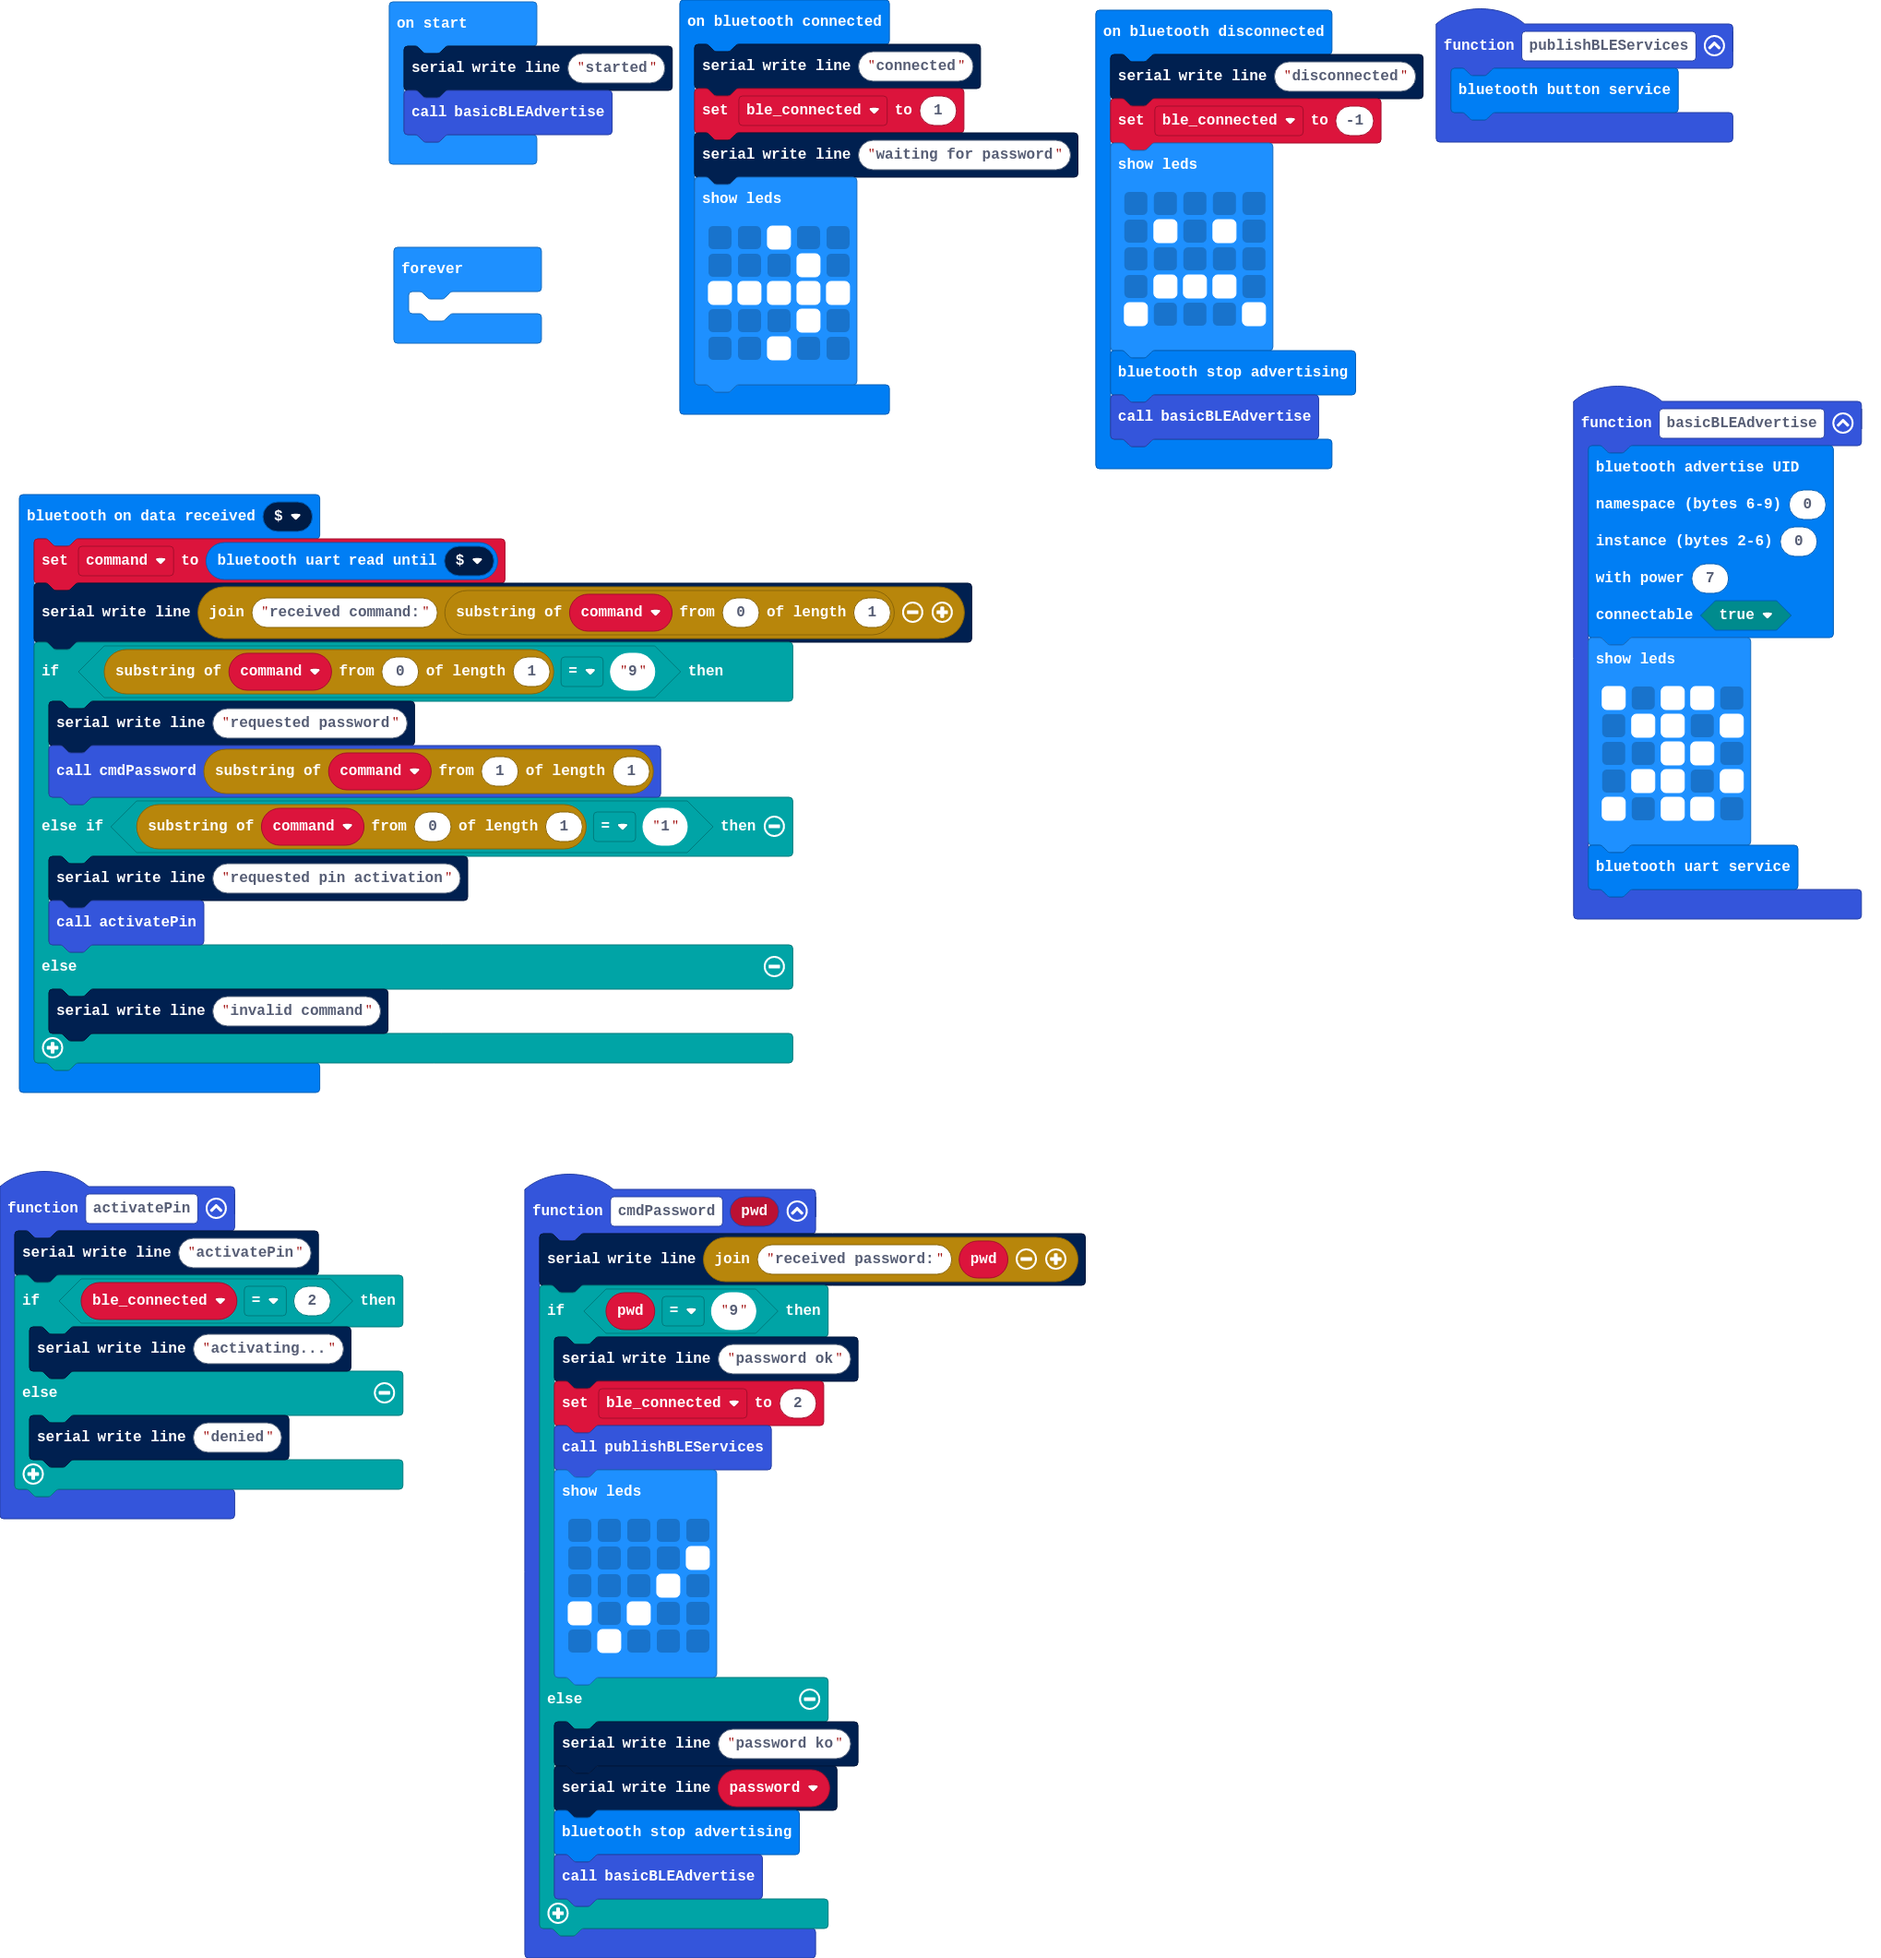
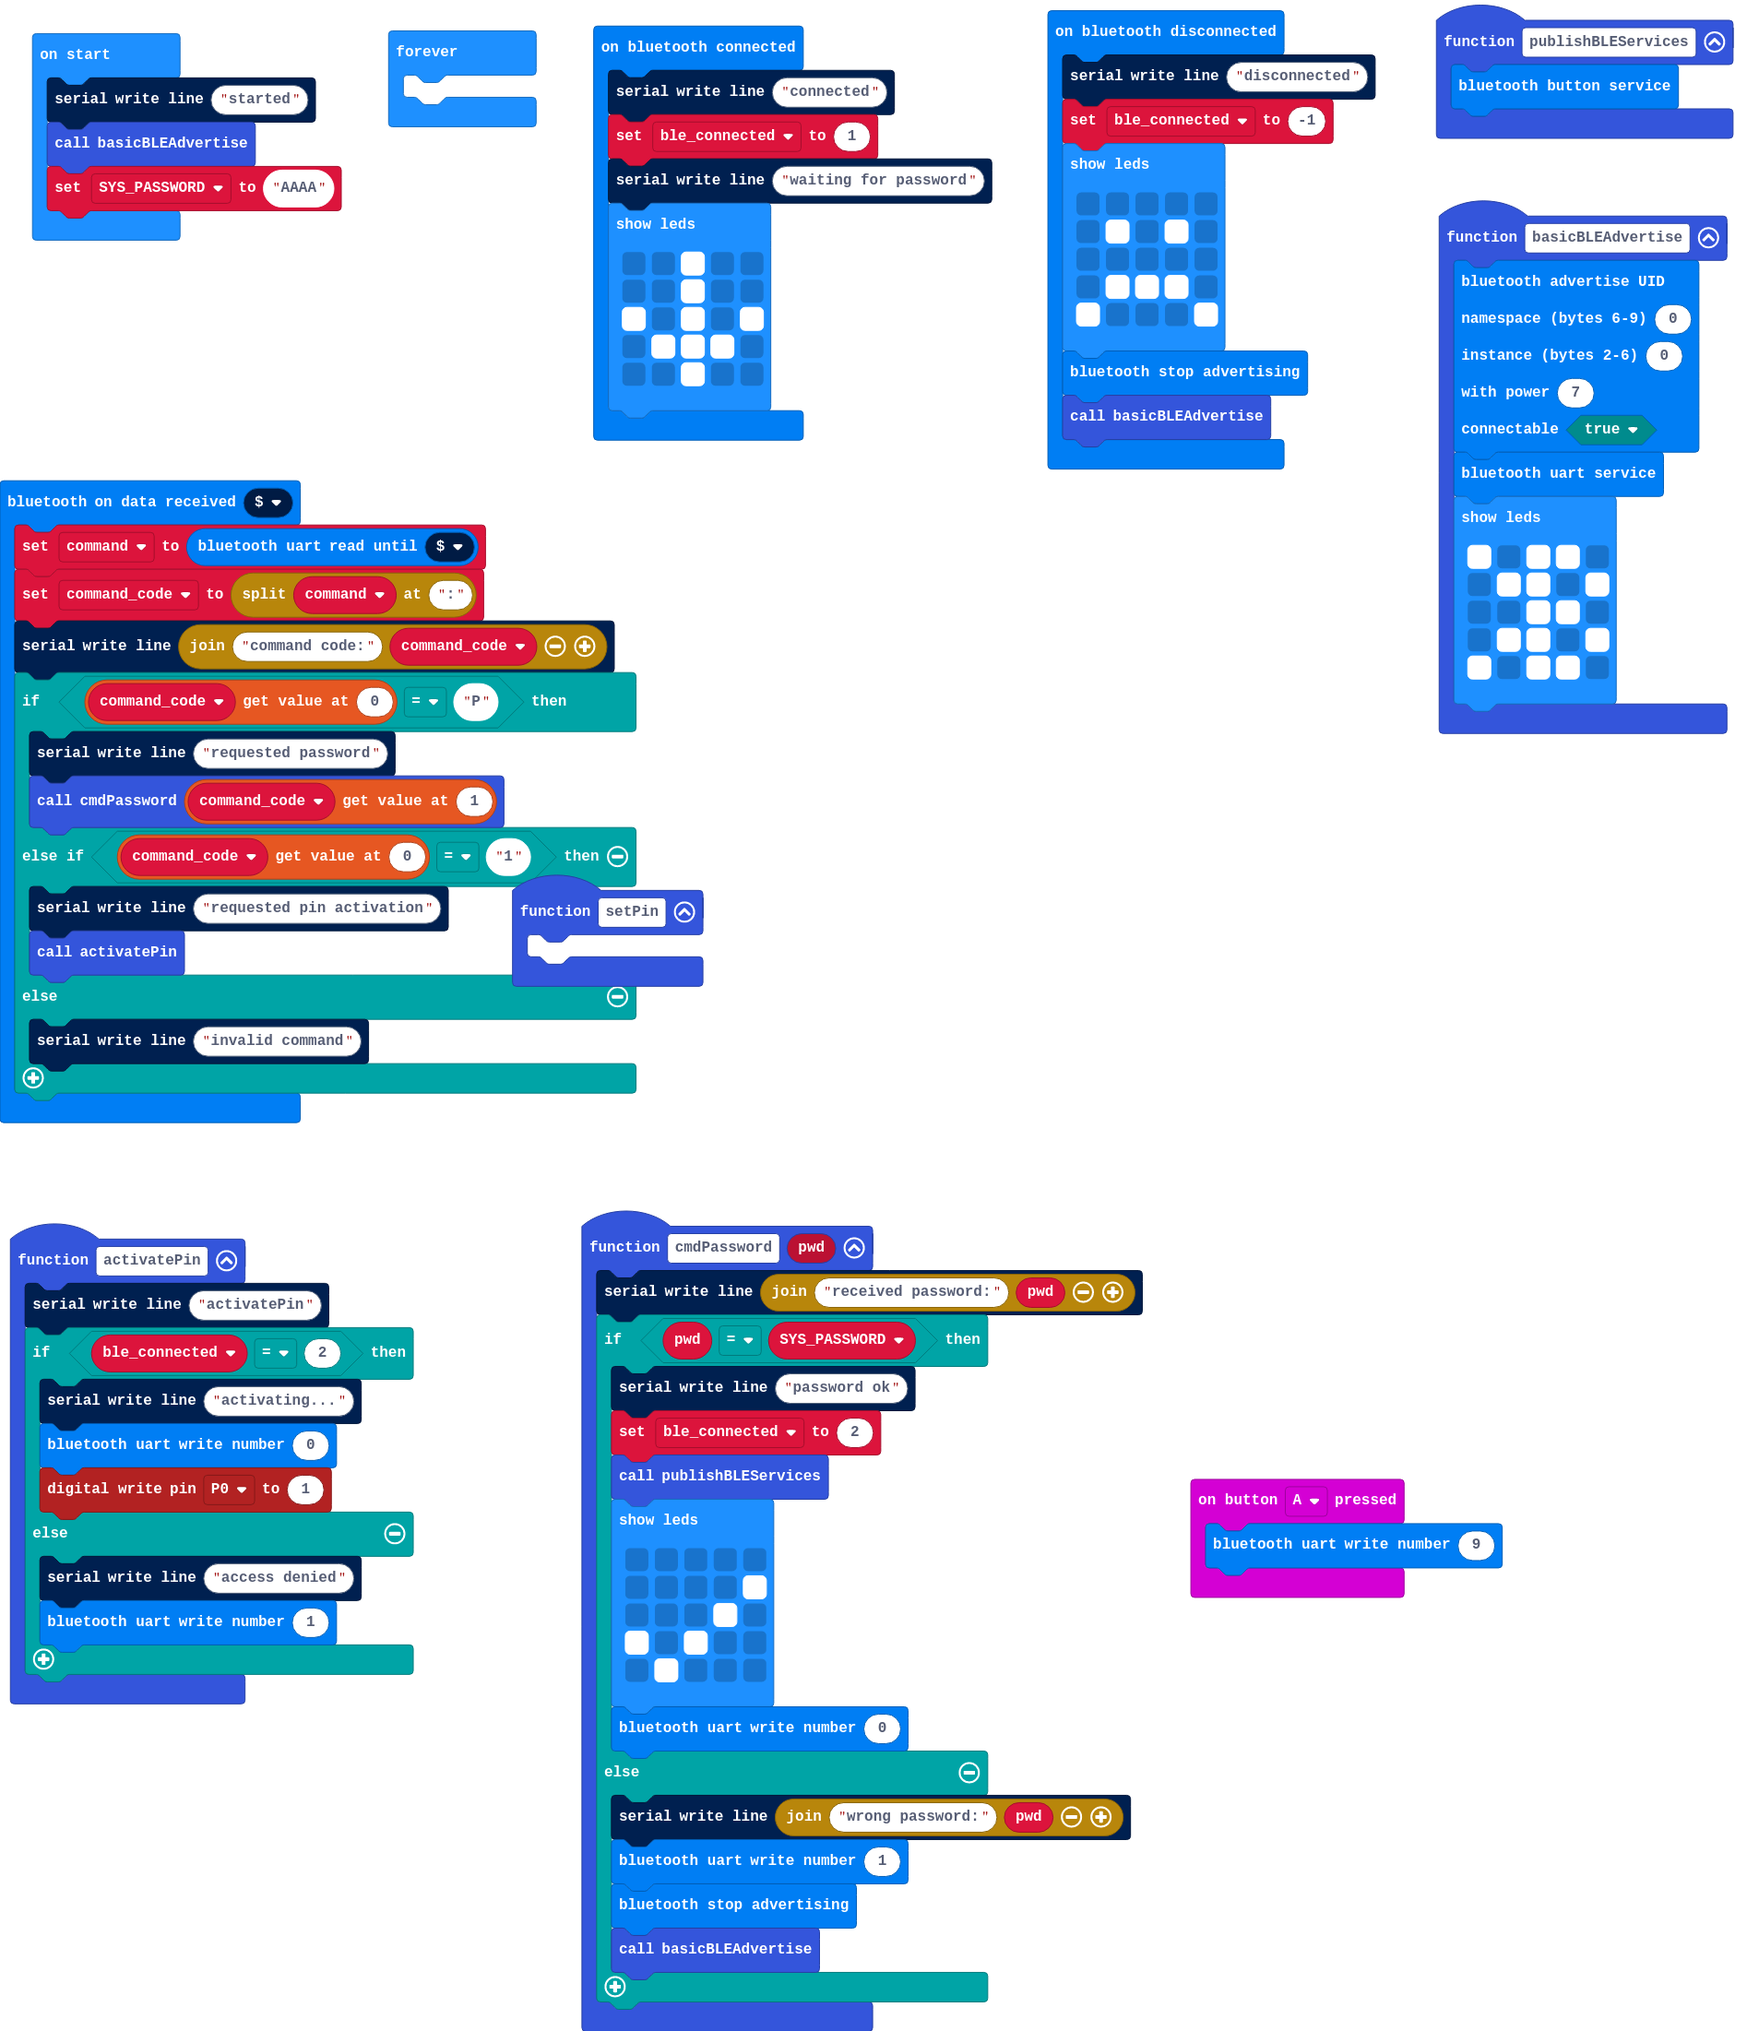
uart response

diff --git a/main.ts b/main.ts
@@ -1,10 +1,11 @@
 bluetooth.onUartDataReceived(serial.delimiters(Delimiters.Dollar), function () {
     command = bluetooth.uartReadUntil(serial.delimiters(Delimiters.Dollar))
-    serial.writeLine("received command:" + command.substr(0, 1))
-    if (command.substr(0, 1) == "9") {
+    command_code = command.split(":")
+    serial.writeLine("command code:" + command_code)
+    if (command_code[0] == "P") {
         serial.writeLine("requested password")
-        cmdPassword(command.substr(1, 1))
-    } else if (command.substr(0, 1) == "1") {
+        cmdPassword(command_code[1])
+    } else if (command_code[0] == "1") {
         serial.writeLine("requested pin activation")
         activatePin()
     } else {
@@ -17,9 +18,9 @@ bluetooth.onBluetoothConnected(function () {
     serial.writeLine("waiting for password")
     basic.showLeds(`
         . . # . .
-        . . . # .
-        # # # # #
-        . . . # .
+        . . # . .
+        # . # . #
+        . # # # .
         . . # . .
         `)
 })
@@ -36,6 +37,9 @@ bluetooth.onBluetoothDisconnected(function () {
     bluetooth.stopAdvertising()
     basicBLEAdvertise()
 })
+input.onButtonPressed(Button.A, function () {
+    bluetooth.uartWriteNumber(9)
+})
 function publishBLEServices () {
     bluetooth.startButtonService()
 }
@@ -46,6 +50,7 @@ function basicBLEAdvertise () {
     7,
     true
     )
+    bluetooth.startUartService()
     basic.showLeds(`
         # . # # .
         . # # . #
@@ -53,11 +58,13 @@ function basicBLEAdvertise () {
         . # # . #
         # . # # .
         `)
-    bluetooth.startUartService()
+}
+function setPin () {
+	
 }
 function cmdPassword (pwd: string) {
     serial.writeLine("received password:" + pwd)
-    if (pwd == "9") {
+    if (pwd == SYS_PASSWORD) {
         serial.writeLine("password ok")
         ble_connected = 2
         publishBLEServices()
@@ -68,10 +75,10 @@ function cmdPassword (pwd: string) {
             # . # . .
             . # . . .
             `)
+        bluetooth.uartWriteNumber(0)
     } else {
-        let password = 0
-        serial.writeLine("password ko")
-        serial.writeLine("" + (password))
+        serial.writeLine("wrong password:" + pwd)
+        bluetooth.uartWriteNumber(1)
         bluetooth.stopAdvertising()
         basicBLEAdvertise()
     }
@@ -80,14 +87,20 @@ function activatePin () {
     serial.writeLine("activatePin")
     if (ble_connected == 2) {
         serial.writeLine("activating...")
+        bluetooth.uartWriteNumber(0)
+        pins.digitalWritePin(DigitalPin.P0, 1)
     } else {
-        serial.writeLine("denied")
+        serial.writeLine("access denied")
+        bluetooth.uartWriteNumber(1)
     }
 }
 let ble_connected = 0
+let command_code: string[] = []
 let command = ""
+let SYS_PASSWORD = ""
 serial.writeLine("started")
 basicBLEAdvertise()
+SYS_PASSWORD = "AAAA"
 basic.forever(function () {
 	
 })
